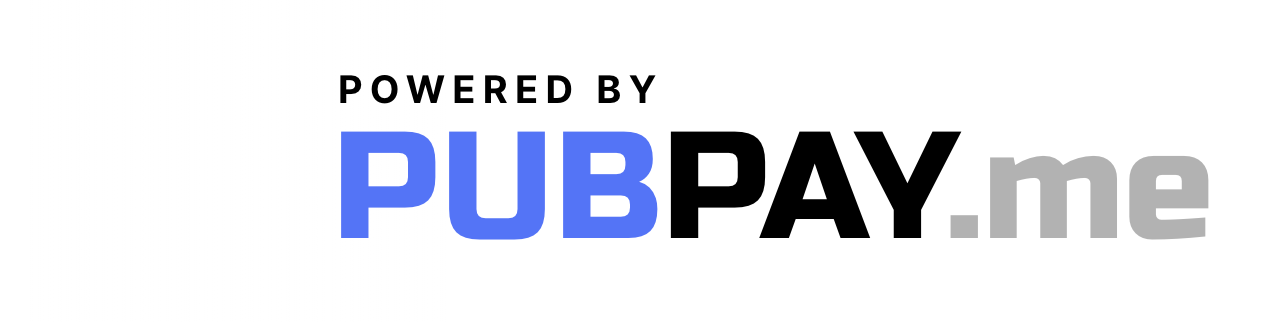
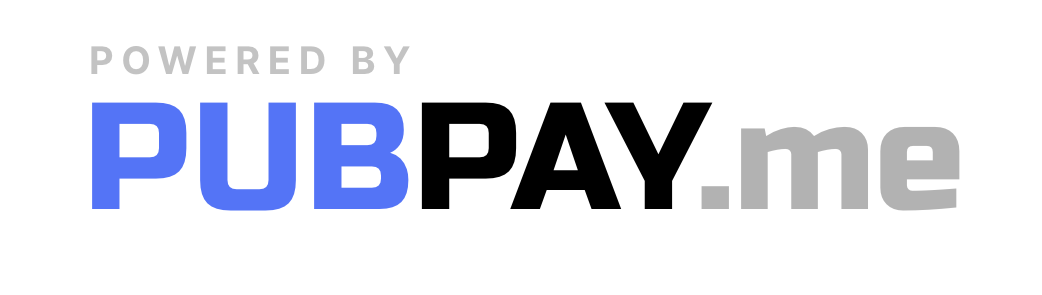
Revise styles

Changed region(s): [[0.0614, 0.1525, 0.952, 0.7627]]

diff --git a/public/stylesheets/style.css b/public/stylesheets/style.css
@@ -810,8 +810,6 @@ input:focus::placeholder {
 
 
 #liveContainer{
-  display: flex;
-  /* justify-content: center; */
   /* height: 16vw; */
   overflow: hidden;
 }
@@ -831,12 +829,15 @@ input:focus::placeholder {
   /* align-items: center; */
   padding: 3vw;
   /* text-align: center; */
+  width: 34vw;
+  position: fixed;
 }
 
 .seedNoteData {
   /* text-align: right; */
   padding-top: 1vw;
   /* background: red; */
+  width: 100%;
 }
 
 .seedNoteAuthor{
@@ -850,8 +851,8 @@ input:focus::placeholder {
   filter: invert(1);
   mix-blend-mode: screen;
   display: flex;
-  width: 35vw;
-  height: 35vw;
+  width: 34vw;
+  height: 34vw;
   padding: 0vw;
 }
 
@@ -862,24 +863,44 @@ input:focus::placeholder {
 }
 
 #noteContent {
-  font-size: 2vw;
-  font-weight: 900;
+  font-size: 2.5vw;
+  font-weight: 400;
+  overflow: hidden;
+  height: 32.5vw;
+  text-overflow: ellipsis;
+  /* padding: 1vw 3vw; */
+  overflow-wrap: break-word;
+  line-height: 1.2em;
+  letter-spacing: 0.06rem;
+}
+
+
+#pubPayContent {
+  font-size: 1.3vw;
+  font-weight: 300;
   width: 100vw;
   overflow: hidden;
   height: 2.5vw;
   text-overflow: ellipsis;
   padding: 1vw 3vw;
+  letter-spacing: 0.03rem;
 }
 
 #zapsContainer{
   padding: 3.5vw;
-  /* background: red; */
+  padding-left: 42vw;
 }
 #zaps {
     /* width: 38vw; */
     display: flex;
     flex-direction: column;
     gap: 0;
+}
+
+
+.zapperContent {
+    font-weight: 300;
+    letter-spacing: 0.06vw;
 }
 
 .zapperProfile{
@@ -951,7 +972,7 @@ input:focus::placeholder {
   width: 100vw;
   height: 100vh;
   background: url("/images/lightning.gif");
-  position: absolute;
+  position: fixed;
   top: 0;
   left: 0;
   background-size: cover;
@@ -960,21 +981,21 @@ input:focus::placeholder {
 }
 
 
-#zapMe {
+#bar {
  /* width: 100vh; */
  position: fixed;
- background: #ffffff;
+ background: #00000000;
  bottom: 0;
  left: 0;
- color: #000000;
+ color: #ffffff59;
 }
 
 #poweredBy {
   position: fixed;
-  right: 0;
-  bottom: 0;
-  opacity:0.8
+  bottom: 1vw;
+  right: 1vw;
+  /* opacity:0.8; */
 }
 #poweredBy img {
-  width:16vw;
+  width: 10vw;
 }

diff --git a/public/javascripts/live.js b/public/javascripts/live.js
@@ -12,7 +12,7 @@ let json9735List = []
 subscribeKind1()
 
 async function subscribeKind1() {
-    let filter = { kinds: [1], ids: [kind1ID]}
+    let filter = { ids: [kind1ID]}
     pool.subscribeMany(
         [...relays],
         [filter],
@@ -130,7 +130,8 @@ async function createkinds9735JSON(kind9735List, kind0fromkind9735List){
         const amount9735 = lightningPayReq.decode(bolt119735).satoshis
         const kind1from9735 = kind9735.tags.find(tag => tag[0] == "e")[1]
         const kind9735id = NostrTools.nip19.noteEncode(kind9735.id)
-        const kind9735Content = kind9735.content
+        const kind9735Content = description9735.content
+        console.log(kind9735)
         let kind0picture = ""
         let kind0npub = ""
         let kind0name = ""
@@ -186,7 +187,7 @@ async function createkinds9735JSON(kind9735List, kind0fromkind9735List){
       let factor = 1.4
       let zapIndex = 1
 
-      for(let json9735 of json9735List.slice(0, 6) ){
+      for(let json9735 of json9735List.slice(1, 666) ){
         const zapDiv = document.createElement("div");
         zapDiv.className = "zap";
 
@@ -197,12 +198,12 @@ async function createkinds9735JSON(kind9735List, kind0fromkind9735List){
         zapDiv.style.fontSize = fontSizeCalc + "vw"
         //zapDiv.style.gap = (gapSize - (zapIndex*1.1)) + "vw"
         let imgSizeCalc = (imgSize/(zapIndex*1.5)) + "vw"
-        let gapCalc = (gapSize/zapIndex/1.5) + "vw"
+        let gapCalc = (gapSize/zapIndex/0.5) + "vw"
         zapIndex = zapIndex+1
 
 
         zapDiv.innerHTML = `
-            <div class="zapper" style="margin-bottom:${gapCalc*-1}">
+            <div class="zapper" style="margin-bottom:${gapCalc}">
                 <div class="zapperProfile" style="gap:${gapCalc}">
                   <img class="userImg zapperProfileImg" style="width:${imgSizeCalc};height:${imgSizeCalc}" src="${profileImage}" />
                   <div>

diff --git a/views/live.html b/views/live.html
@@ -57,12 +57,10 @@
           <div id="author" class="seedNoteAuthor">
             <img id="authorNameProfileImg" class="userImg" src="/images/gradient_color.gif"/>
             <div id="authorName" class="noteDisplayName">
-              ▮▮▮▮▮▮▮
             </div>
           </div>
-          <div id="note" style="display:none">
-            <div id="noteContent_">
-              ▮▮▮▮▮ ▮▮▮▮ ▮ ▮▮▮▮▮
+          <div id="note">
+            <div id="noteContent">
             </div>
           </div>
         </div>
@@ -80,8 +78,8 @@
     <div class="liveZapOverlay">
     </div>
 
-    <div id="zapMe">
-      <div id="noteContent" class="">▮▮▮▮▮ ▮▮▮▮ ▮ ▮▮▮▮▮</div>
+    <div id="bar">
+      <div id="pubPayContent" class="">Scan with camera app to njump note1.</div>
     </div>
 
 
